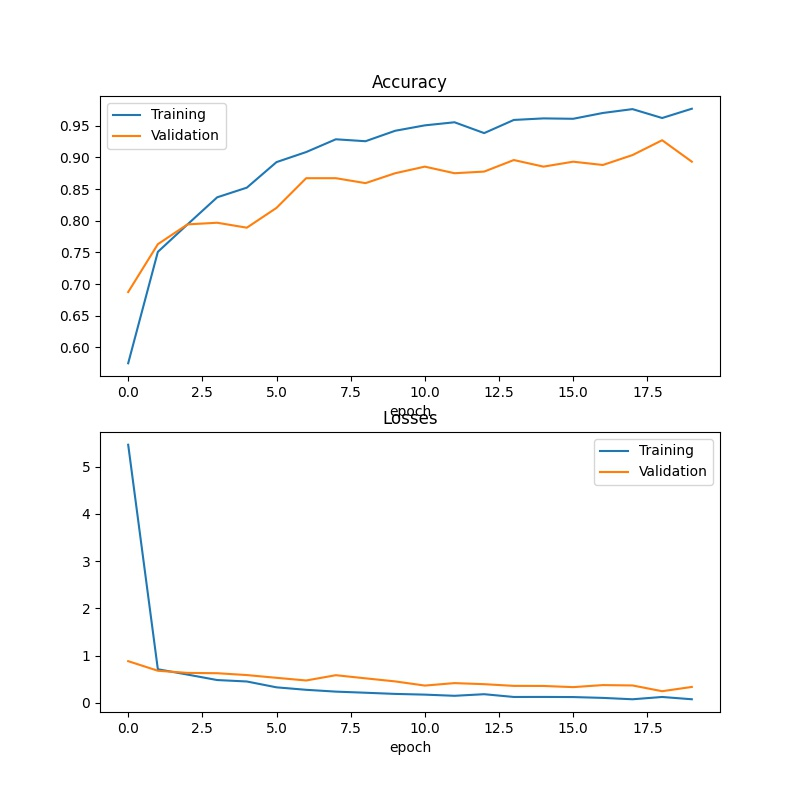
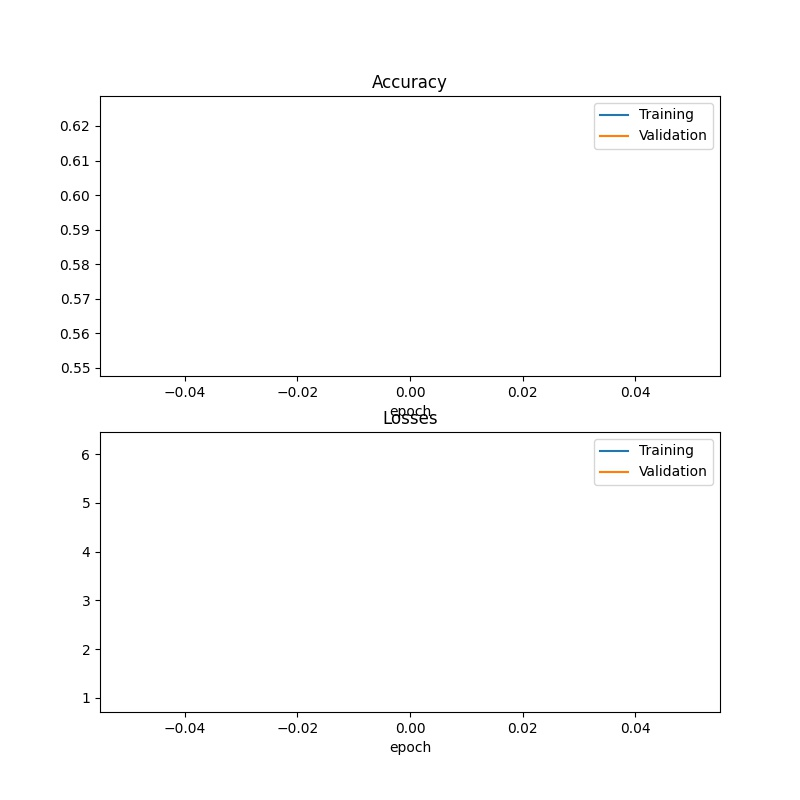
added models and callbacks, mlflow and graphs

diff --git a/waste_classification/trainer.py b/waste_classification/trainer.py
@@ -20,10 +20,10 @@ from tensorflow.keras.losses import SparseCategoricalCrossentropy
 from google.cloud import storage
 from waste_classification.params import  MLFLOW_URI, LOCAL_PATH_TRASHNET, package_parent
 from mlflow.tracking import MlflowClient
-from tensorflow.keras.applications import DenseNet121, VGG16, ResNet50
+from tensorflow.keras.applications import DenseNet169, DenseNet121, VGG16, ResNet50, ResNet101
 from tensorflow.keras.optimizers import Adam
 from keras.preprocessing import image
-from tensorflow.keras.callbacks import EarlyStopping
+from tensorflow.keras.callbacks import EarlyStopping, ReduceLROnPlateau
 
 #hi, julio was here!
 
@@ -43,6 +43,7 @@ class Trainer():
 
 
 #RandomRotation(factor=(-0.1, 0.3)),
+#RandomZoom(.5, .2)
 
     def load_data(self, use_trashnet=True, use_taco=True, gcp=False):
         if use_trashnet and use_taco:
@@ -57,11 +58,17 @@ class Trainer():
         self.val_ds_local = val_ds
         self.test_ds_local = test_ds
 
-    def create_main_layer(self, model_type="ResNet50", num_classes=6):
-        model_type = "ResNet50"
+    def create_main_layer(self, model_type="ResNet101", num_classes=6):
+        model_type = "ResNet101"
         input_shape=(180, 180, 3)
         if model_type == "ResNet50":
             base_model = ResNet50(input_shape=input_shape, include_top=False, weights="imagenet")
+            for layer in base_model.layers:
+                layer.trainable = False
+        elif model_type == "ResNet101":
+            base_model = ResNet101(input_shape=input_shape,
+                               include_top=False,
+                               weights="imagenet")
             for layer in base_model.layers:
                 layer.trainable = False
         elif model_type == "VGG16":
@@ -69,9 +76,15 @@ class Trainer():
                                include_top=False,
                                weights="imagenet")
             for layer in base_model.layers:
-                layer.trainable = False
+                layer.trainable = False        
         elif model_type == "DenseNet121":
             base_model = DenseNet121(include_top=False,
+                                     weights="imagenet",
+                                     input_shape=input_shape)
+            for layer in base_model.layers:
+                layer.trainable = False
+        elif model_type == "DenseNet169":
+            base_model = DenseNet169(include_top=False,
                                      weights="imagenet",
                                      input_shape=input_shape)
             for layer in base_model.layers:
@@ -100,7 +113,7 @@ class Trainer():
         return model
 
 
-    def train_model(self, model_type, epochs=20):
+    def train_model(self, model_type, epochs=1):
         tic = time.time()
         core_model = self.create_main_layer()
         model = Sequential([self.augment_trashnet(),
@@ -110,7 +123,9 @@ class Trainer():
                       loss=SparseCategoricalCrossentropy(from_logits=False),
                       metrics=['accuracy'])
         history = model.fit(self.train_ds_local, validation_data=self.val_ds_local, epochs=epochs, callbacks=[
-            EarlyStopping(monitor='val_accuracy',patience=9)])
+            EarlyStopping(monitor='val_accuracy',patience=9),
+            ReduceLROnPlateau(monitor='val_loss', factor=0.2,
+                              patience=2, min_lr=0.0001, verbose=1)])
         self.mlflow_log_metric("epochs", epochs)
         self.mlflow_log_metric("train_time", int(time.time() - tic))
         self.model = model
@@ -199,7 +214,7 @@ if __name__ == "__main__":
     model_dir = os.path.join(package_parent, "model_standard")
     t = Trainer()
     t.load_data(gcp=False, use_taco=False)
-    t.train_model(model_type="ResNet50", epochs=20)
+    t.train_model(model_type="ResNet101", epochs=1)
     # t.compute_confusion_matrix(os.path.join(model_dir, "..", "confusion_matrix.png"))
     t.save_model(model_dir)
     # t.load_model(model_dir)

diff --git a/waste_classification/data.py b/waste_classification/data.py
@@ -24,7 +24,7 @@ def get_data_trashnet(gcp=False):
         return tuple(load_dataset(f"{directory}_{i}", compression="GZIP") for i in range(3))
     else:
         directory = TRASHNET_RESIZED
-        batch_size = 16
+        batch_size = 32
         img_height = 180
         img_width = 180
         all_train_ds = image_dataset_from_directory(directory,
